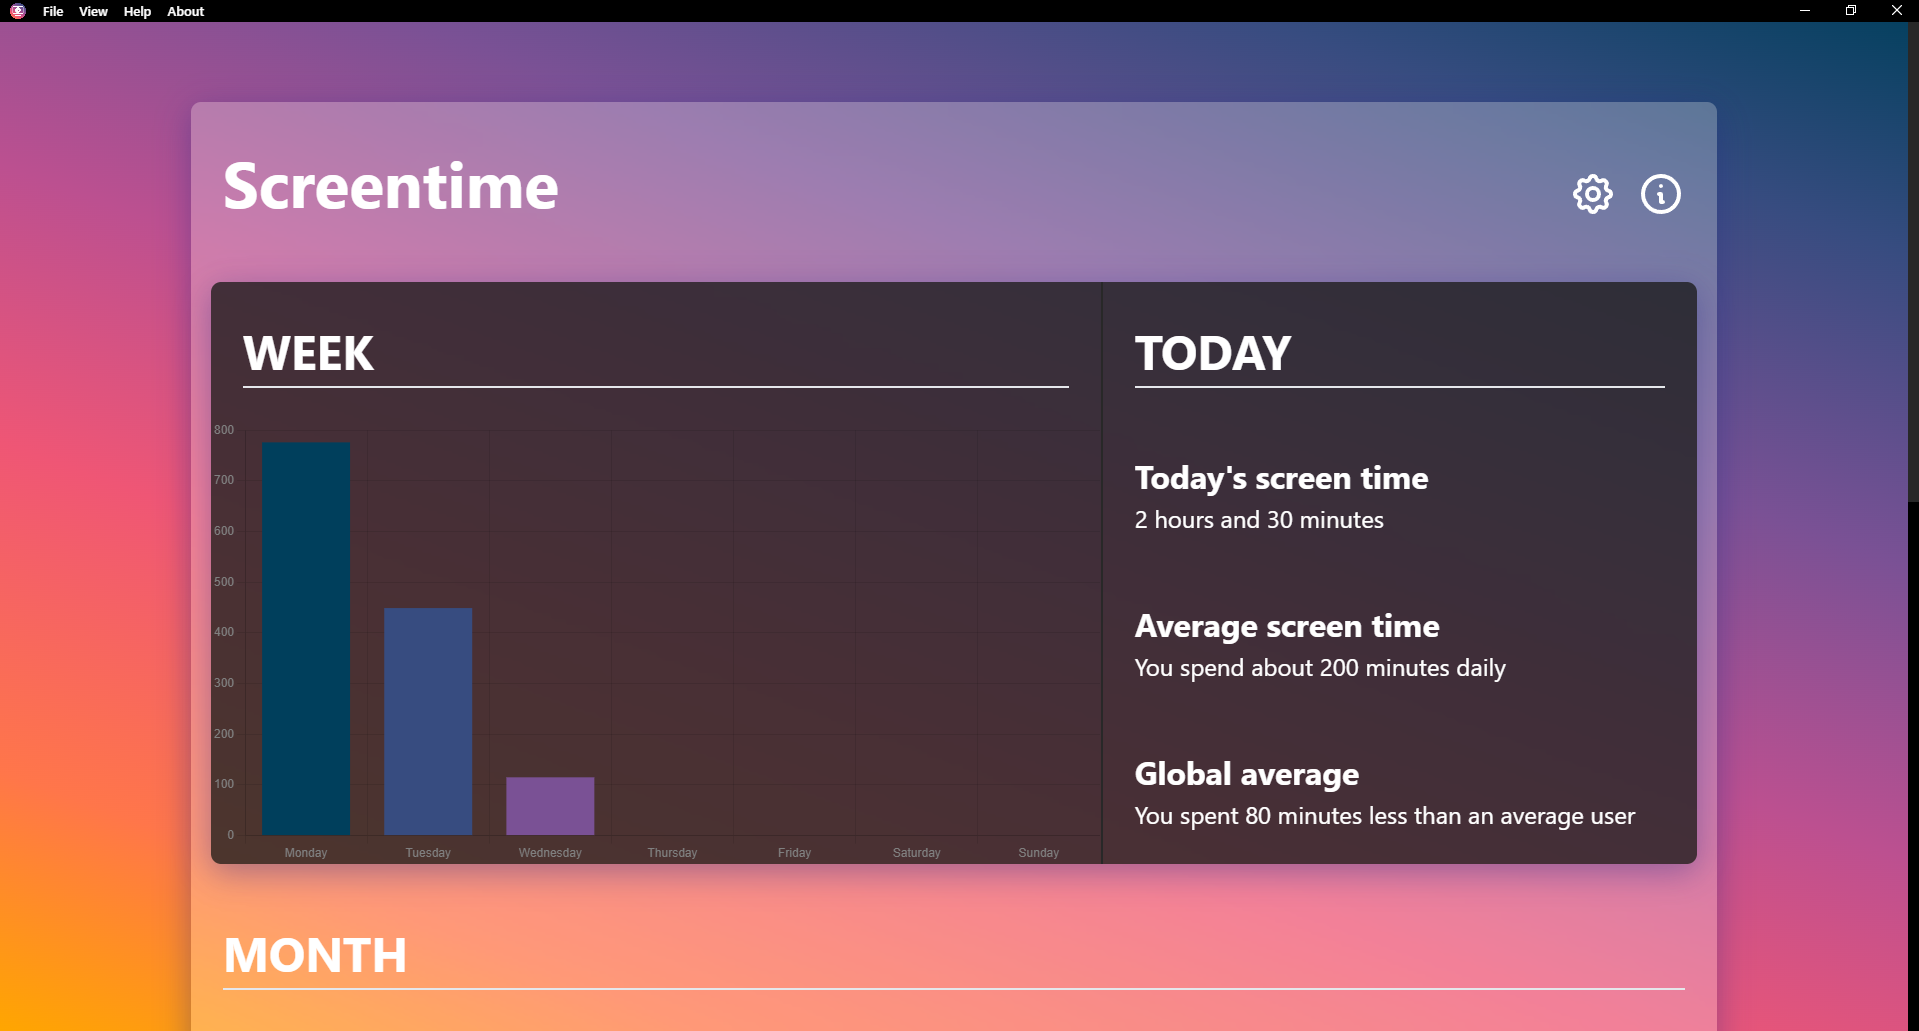
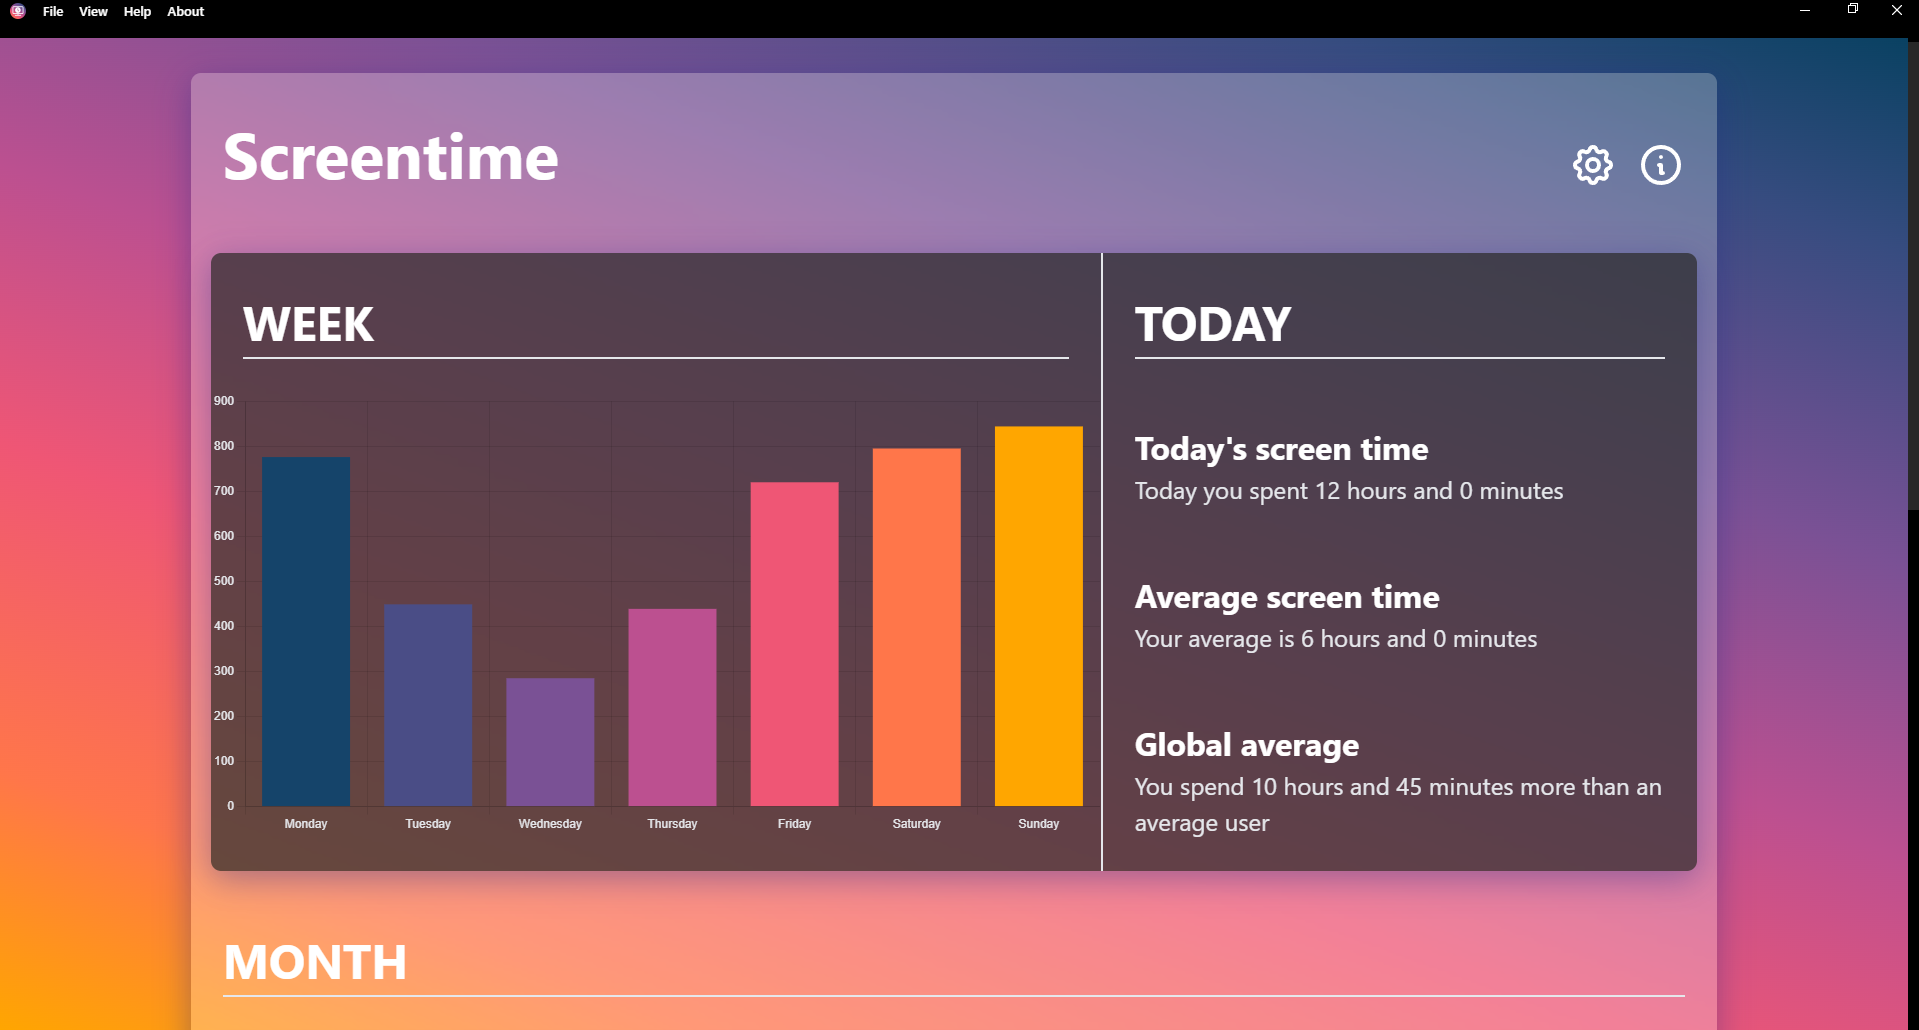
Better styling

diff --git a/interface/application/index.html b/interface/application/index.html
@@ -79,7 +79,7 @@
 			</div>
 
 			<div class="blackGlass m-5 flex">
-				<div class="w-3/5 border-r-2 border-gray-500">
+				<div class="w-3/5 border-r-2">
 					<h2 class="border-b-2 uppercase">Week</h2>
 					<canvas id="weeklyChart"></canvas>
 				</div>
@@ -89,17 +89,17 @@
 					<div class="flex flex-col justify-between">
 						<div>
 							<h3 class="mb-0">Today's screen time</h3>
-							<h4 class="todayUsage mt-0"></h4>
+							<h4 class="todayUsage mt-0 text-gray-200"></h4>
 						</div>
 
 						<div>
 							<h3 class="mb-0">Average screen time</h3>
-							<h4 class="avgUsage mt-0"></h4>
+							<h4 class="avgUsage mt-0 text-gray-200"></h4>
 						</div>
 
 						<div>
 							<h3 class="mb-0">Global average</h3>
-							<h4 class="globalAvgUsage mt-0"></h4>
+							<h4 class="globalAvgUsage mt-0 text-gray-200"></h4>
 						</div>
 					</div>
 				</div>
@@ -107,8 +107,8 @@
 			<div class="mb-20 w-full">
 				<h2 class="mb-16 border-b-2 uppercase">Month</h2>
 
-				<div class="md:p-0 xl:p-5">
-					<table class="w-full border-4 border-white">
+				<div class="blackGlass mx-5 md:p-0 xl:p-5">
+					<table class="w-full rounded-3xl border-4 border-white">
 						<thead class="border-4 border-white text-2xl">
 							<tr>
 								<th class="border-2"><p class="week1 text-2xl">Monday</p></th>
@@ -126,43 +126,43 @@
 								<td class="lg:w-30 md:w-30 h-40 w-10 border p-1 sm:w-20 xl:w-40">
 									<div class="mx-auto flex h-40 flex-col">
 										<p class="font-medium">1</p>
-										<p class="day1 mt-10"></p>
+										<p class="day1 mt-10 text-gray-200"></p>
 									</div>
 								</td>
 								<td class="lg:w-30 md:w-30 h-40 w-10 border p-1 sm:w-20 xl:w-40">
 									<div class="mx-auto flex h-40 flex-col">
 										<p class="font-medium">2</p>
-										<p class="day2 mt-10"></p>
+										<p class="day2 mt-10 text-gray-200"></p>
 									</div>
 								</td>
 								<td class="lg:w-30 md:w-30 h-40 w-10 border p-1 sm:w-20 xl:w-40">
 									<div class="mx-auto flex h-40 flex-col">
 										<p class="font-medium">3</p>
-										<p class="day3 mt-10"></p>
+										<p class="day3 mt-10 text-gray-200"></p>
 									</div>
 								</td>
 								<td class="lg:w-30 md:w-30 h-40 w-10 border p-1 sm:w-20 xl:w-40">
 									<div class="mx-auto flex h-40 flex-col">
 										<p class="font-medium">4</p>
-										<p class="day4 mt-10"></p>
+										<p class="day4 mt-10 text-gray-200"></p>
 									</div>
 								</td>
 								<td class="lg:w-30 md:w-30 h-40 w-10 border p-1 sm:w-20 xl:w-40">
 									<div class="mx-auto flex h-40 flex-col">
 										<p class="font-medium">5</p>
-										<p class="day5 mt-10"></p>
+										<p class="day5 mt-10 text-gray-200"></p>
 									</div>
 								</td>
 								<td class="lg:w-30 md:w-30 h-40 w-10 border p-1 sm:w-20 xl:w-40">
 									<div class="mx-auto flex h-40 flex-col">
 										<p class="font-medium">6</p>
-										<p class="day6 mt-10"></p>
+										<p class="day6 mt-10 text-gray-200"></p>
 									</div>
 								</td>
 								<td class="lg:w-30 md:w-30 h-40 w-10 border p-1 sm:w-20 xl:w-40">
 									<div class="mx-auto flex h-40 flex-col">
 										<p class="font-medium">7</p>
-										<p class="day7 mt-10"></p>
+										<p class="day7 mt-10 text-gray-200"></p>
 									</div>
 								</td>
 							</tr>
@@ -172,43 +172,43 @@
 								<td class="lg:w-30 md:w-30 h-40 w-10 border p-1 sm:w-20 xl:w-40">
 									<div class="mx-auto flex h-40 flex-col">
 										<p class="font-medium">8</p>
-										<p class="day8 mt-10"></p>
+										<p class="day8 mt-10 text-gray-200"></p>
 									</div>
 								</td>
 								<td class="lg:w-30 md:w-30 h-40 w-10 border p-1 sm:w-20 xl:w-40">
 									<div class="mx-auto flex h-40 flex-col">
 										<p class="font-medium">9</p>
-										<p class="day9 mt-10"></p>
+										<p class="day9 mt-10 text-gray-200"></p>
 									</div>
 								</td>
 								<td class="lg:w-30 md:w-30 h-40 w-10 border p-1 sm:w-20 xl:w-40">
 									<div class="mx-auto flex h-40 flex-col">
 										<p class="font-medium">10</p>
-										<p class="day10 mt-10"></p>
+										<p class="day10 mt-10 text-gray-200"></p>
 									</div>
 								</td>
 								<td class="lg:w-30 md:w-30 h-40 w-10 border p-1 sm:w-20 xl:w-40">
 									<div class="mx-auto flex h-40 flex-col">
 										<p class="font-medium">11</p>
-										<p class="day11 mt-10"></p>
+										<p class="day11 mt-10 text-gray-200"></p>
 									</div>
 								</td>
 								<td class="lg:w-30 md:w-30 h-40 w-10 border p-1 sm:w-20 xl:w-40">
 									<div class="mx-auto flex h-40 flex-col">
 										<p class="font-medium">12</p>
-										<p class="day12 mt-10"></p>
+										<p class="day12 mt-10 text-gray-200"></p>
 									</div>
 								</td>
 								<td class="lg:w-30 md:w-30 h-40 w-10 border p-1 sm:w-20 xl:w-40">
 									<div class="mx-auto flex h-40 flex-col">
 										<p class="font-medium">13</p>
-										<p class="day13 mt-10"></p>
+										<p class="day13 mt-10 text-gray-200"></p>
 									</div>
 								</td>
 								<td class="lg:w-30 md:w-30 h-40 w-10 border p-1 sm:w-20 xl:w-40">
 									<div class="mx-auto flex h-40 flex-col">
 										<p class="font-medium">14</p>
-										<p class="day14 mt-10"></p>
+										<p class="day14 mt-10 text-gray-200"></p>
 									</div>
 								</td>
 							</tr>
@@ -218,43 +218,43 @@
 								<td class="lg:w-30 md:w-30 h-40 w-10 border p-1 sm:w-20 xl:w-40">
 									<div class="mx-auto flex h-40 flex-col">
 										<p class="font-medium">15</p>
-										<p class="day15 mt-10"></p>
+										<p class="day15 mt-10 text-gray-200"></p>
 									</div>
 								</td>
 								<td class="lg:w-30 md:w-30 h-40 w-10 border p-1 sm:w-20 xl:w-40">
 									<div class="mx-auto flex h-40 flex-col">
 										<p class="font-medium">16</p>
-										<p class="day16 mt-10"></p>
+										<p class="day16 mt-10 text-gray-200"></p>
 									</div>
 								</td>
 								<td class="lg:w-30 md:w-30 h-40 w-10 border p-1 sm:w-20 xl:w-40">
 									<div class="mx-auto flex h-40 flex-col">
 										<p class="font-medium">17</p>
-										<p class="day17 mt-10"></p>
+										<p class="day17 mt-10 text-gray-200"></p>
 									</div>
 								</td>
 								<td class="lg:w-30 md:w-30 h-40 w-10 border p-1 sm:w-20 xl:w-40">
 									<div class="mx-auto flex h-40 flex-col">
 										<p class="font-medium">18</p>
-										<p class="day18 mt-10"></p>
+										<p class="day18 mt-10 text-gray-200"></p>
 									</div>
 								</td>
 								<td class="lg:w-30 md:w-30 h-40 w-10 border p-1 sm:w-20 xl:w-40">
 									<div class="mx-auto flex h-40 flex-col">
 										<p class="font-medium">19</p>
-										<p class="day19 mt-10"></p>
+										<p class="day19 mt-10 text-gray-200"></p>
 									</div>
 								</td>
 								<td class="lg:w-30 md:w-30 h-40 w-10 border p-1 sm:w-20 xl:w-40">
 									<div class="mx-auto flex h-40 flex-col">
 										<p class="font-medium">20</p>
-										<p class="day20 mt-10"></p>
+										<p class="day20 mt-10 text-gray-200"></p>
 									</div>
 								</td>
 								<td class="lg:w-30 md:w-30 h-40 w-10 border p-1 sm:w-20 xl:w-40">
 									<div class="mx-auto flex h-40 flex-col">
 										<p class="font-medium">21</p>
-										<p class="day21 mt-10"></p>
+										<p class="day21 mt-10 text-gray-200"></p>
 									</div>
 								</td>
 							</tr>
@@ -264,43 +264,43 @@
 								<td class="lg:w-30 md:w-30 h-40 w-10 border p-1 sm:w-20 xl:w-40">
 									<div class="mx-auto flex h-40 flex-col">
 										<p class="font-medium">22</p>
-										<p class="day22 mt-10"></p>
+										<p class="day22 mt-10 text-gray-200"></p>
 									</div>
 								</td>
 								<td class="lg:w-30 md:w-30 h-40 w-10 border p-1 sm:w-20 xl:w-40">
 									<div class="mx-auto flex h-40 flex-col">
 										<p class="font-medium">23</p>
-										<p class="day23 mt-10"></p>
+										<p class="day23 mt-10 text-gray-200"></p>
 									</div>
 								</td>
 								<td class="lg:w-30 md:w-30 h-40 w-10 border p-1 sm:w-20 xl:w-40">
 									<div class="mx-auto flex h-40 flex-col">
 										<p class="font-medium">24</p>
-										<p class="day24 mt-10"></p>
+										<p class="day24 mt-10 text-gray-200"></p>
 									</div>
 								</td>
 								<td class="lg:w-30 md:w-30 h-40 w-10 border p-1 sm:w-20 xl:w-40">
 									<div class="mx-auto flex h-40 flex-col">
 										<p class="font-medium">25</p>
-										<p class="day25 mt-10"></p>
+										<p class="day25 mt-10 text-gray-200"></p>
 									</div>
 								</td>
 								<td class="lg:w-30 md:w-30 h-40 w-10 border p-1 sm:w-20 xl:w-40">
 									<div class="mx-auto flex h-40 flex-col">
 										<p class="font-medium">26</p>
-										<p class="day26 mt-10"></p>
+										<p class="day26 mt-10 text-gray-200"></p>
 									</div>
 								</td>
 								<td class="lg:w-30 md:w-30 h-40 w-10 border p-1 sm:w-20 xl:w-40">
 									<div class="mx-auto flex h-40 flex-col">
 										<p class="font-medium">27</p>
-										<p class="day27 mt-10"></p>
+										<p class="day27 mt-10 text-gray-200"></p>
 									</div>
 								</td>
 								<td id="day28Container" class="lg:w-30 md:w-30 h-40 w-10 border p-1 sm:w-20 xl:w-40">
 									<div class="mx-auto flex h-40 flex-col">
 										<p class="font-medium">28</p>
-										<p class="day28 mt-10"></p>
+										<p class="day28 mt-10 text-gray-200"></p>
 									</div>
 								</td>
 							</tr>
@@ -310,19 +310,19 @@
 								<td id="day29Container" class="lg:w-30 md:w-30 h-40 w-10 border p-1 sm:w-20 xl:w-40">
 									<div class="mx-auto flex h-40 flex-col">
 										<p class="font-medium">29</p>
-										<p class="day29 mt-10"></p>
+										<p class="day29 mt-10 text-gray-200"></p>
 									</div>
 								</td>
 								<td id="day30Container" class="lg:w-30 md:w-30 h-40 w-10 border p-1 sm:w-20 xl:w-40">
 									<div class="mx-auto flex h-40 flex-col">
 										<p class="font-medium">30</p>
-										<p class="day30 mt-10"></p>
+										<p class="day30 mt-10 text-gray-200"></p>
 									</div>
 								</td>
 								<td id="day31Container" class="lg:w-30 md:w-30 h-40 w-10 border p-1 sm:w-20 xl:w-40">
 									<div class="mx-auto flex h-40 flex-col">
 										<p class="font-medium">31</p>
-										<p class="day31 mt-10"></p>
+										<p class="day31 mt-10 text-gray-200"></p>
 									</div>
 								</td>
 							</tr>

diff --git a/interface/application/index.ts b/interface/application/index.ts
@@ -84,7 +84,7 @@ const weeklyChart = () => {
 				{
 					label: "Minutes",
 					data: dataset,
-					backgroundColor: ["#003f5c", "#374c80", "#7a5195", "#bc5090", "#ef5675", "#ff764a", "#ffa600"],
+					backgroundColor: ["#15446A", "#4A4D86", "#7a5195", "#bc5090", "#ef5675", "#ff764a", "#ffa600"],
 					borderColor: ["gray"],
 				},
 			],
@@ -94,12 +94,12 @@ const weeklyChart = () => {
 				y: {
 					beginAtZero: true,
 					ticks: {
-						color: "gray",
+						color: "#e5e7eb",
 					},
 				},
 				x: {
 					ticks: {
-						color: "gray",
+						color: "#e5e7eb",
 					},
 				},
 			},

diff --git a/interface/styles/partials/components.css b/interface/styles/partials/components.css
@@ -29,9 +29,8 @@ dialog[open] {
 
 /* black glass */
 .blackGlass {
-	background: rgba(0, 0, 0, 0.7);
+	background: rgba(0, 0, 0, 0.6);
 	box-shadow: 0 8px 32px 0 rgba(31, 38, 135, 0.37);
 	backdrop-filter: blur(20px);
-	-webkit-backdrop-filter: blur(20px);
 	border-radius: 10px;
 }
